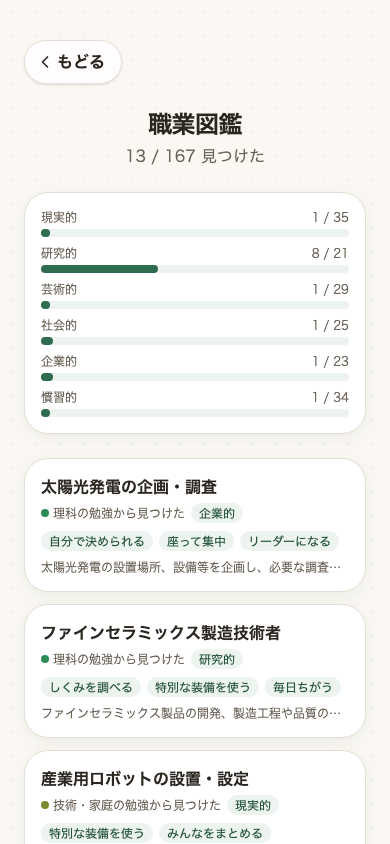
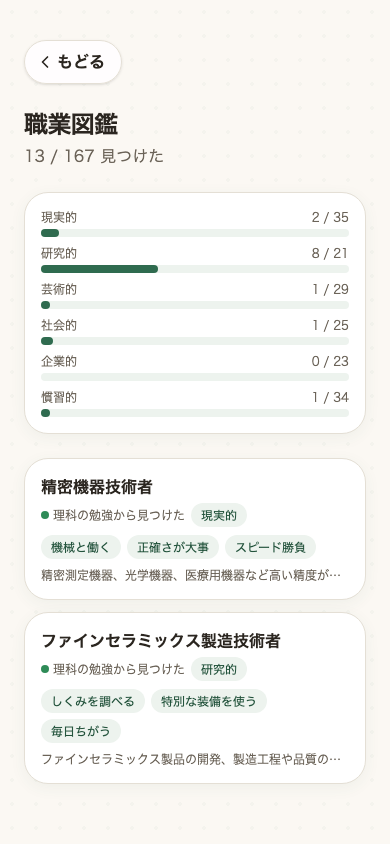
design.mdに左メニュー・タネの部屋・まだの姿を隠す判断を記録し、スクリーンショットを撮り直す
パソコンの左メニューを作った理由と出すもの・出さないもの、タネの部屋の作り直し、
まだ到達していない姿を「？」で隠し画像も読み込まないこと、LPには葉4枚と花の姿を
あえて残していることを追記した。ホーム・発見・図鑑のスクリーンショット（README用と
LP用）を今の画面で撮り直した。

diff --git a/docs/design.md b/docs/design.md
@@ -561,12 +561,34 @@ UTCの日付を使っていたため、日本時間の0〜9時に記録すると
 一方、ポートフォリオとしてデモを見る人はパソコンで開くことが多いため、パソコン
 （幅1024px以上）では同じ内容を横に並べる。
 
+**パソコンでは、左にメニューを常に出す。** スマホ版の画面の移動は「もどる」ボタンと
+ホーム下の導線だけで、パソコンでもそのままだった。パソコンでは左にホーム・職業図鑑・
+タネ・きろく・時間割のメニュー（今いる画面を強調）と、タネの部屋の入口、「今日の勉強を
+記録する」ボタンを常に出し、どの画面からでも一度で移れるようにした。メニューから行ける
+画面では「もどる」とホーム下の導線を出さない（職業の詳細とタネの部屋には残す）。記録
+パネルは、どの画面からも開けるようにApp側に1つだけ持つ。LPには出さない。
+
 | 画面 | スマホ | パソコン |
 | --- | --- | --- |
-| ホーム | 1画面に収める（下記） | 左に記録まわり、右に最近見つけた仕事5件と導線の2列 |
+| ホーム | 1画面に収める（下記） | 左に記録まわり、右に最近見つけた仕事5件の2列（下の導線は左メニューに任せる） |
 | 勉強の記録 | 画面下からせり上がるパネル。教科は3列、教材・単元・メモ（任意）は押したときだけ開く | 画面中央のダイアログ |
 | きろく | 「今週」「カレンダー」「教科ごと」のタブに分け、どれもほぼ1画面 | 各タブの中身を横並び（カレンダーと選んだ日の記録など） |
 | 職業図鑑・タネ | 1列 | 図鑑は左にエリアの進み具合、右にカードを2列。タネは2列 |
+| タネの部屋 | 1画面に収める（iPhone SEでも） | 左に部屋の絵、右に成長の道のり・数字・記録 |
+| 時間割 | 月〜土（土曜は切り替え）× 1〜6限の表 | 同じ表を広く、教科名を略さず出す |
+
+**タネの部屋。** 以前は部屋の絵の下に、ステージ・ひとこと・記録が文字で縦に並ぶだけで、
+育っていることが伝わりにくかった。作り直して、ひとことはタネの吹き出しにし、5つの姿を
+並べた成長の道のりと次の姿までの残り件数、図鑑・連続日数・合計時間のタイル、教科ごとの
+色の棒グラフで見せる。新しい遊びの仕組み（部屋を飾るなど）は、ゲーム要素を検証の結果を
+見てから決める方針のため足していない。
+
+**まだ到達していない姿は隠す。** 成長の道のりで、まだの姿を灰色の影で見せていたが、
+どんな姿に育つかが分かってしまうため、点線の丸に「？」で示し、画像自体も読み込まない
+（画面に出さずに読み込むだけだと、ブラウザの開発ツールで見えてしまう）。何件でその姿に
+なるかだけは残し、次の姿までの文章からも姿の名前を外した。なお**LPには、葉が4枚の姿と
+花が咲いた姿の画像をあえて残している**（アプリの紹介として、育つと花が咲くことを見せる
+ため）。アプリの中では隠し、LPでは見せる、という扱いの違いは意図したもの。
 
 ホームは、記録の前後・ホーム画面への追加の案内の有無・時間割の登録の有無・画面の大きさ
 （390×844、iPhone SEの375×667）の組み合わせ24通りで、1画面に収まることを確かめている。
